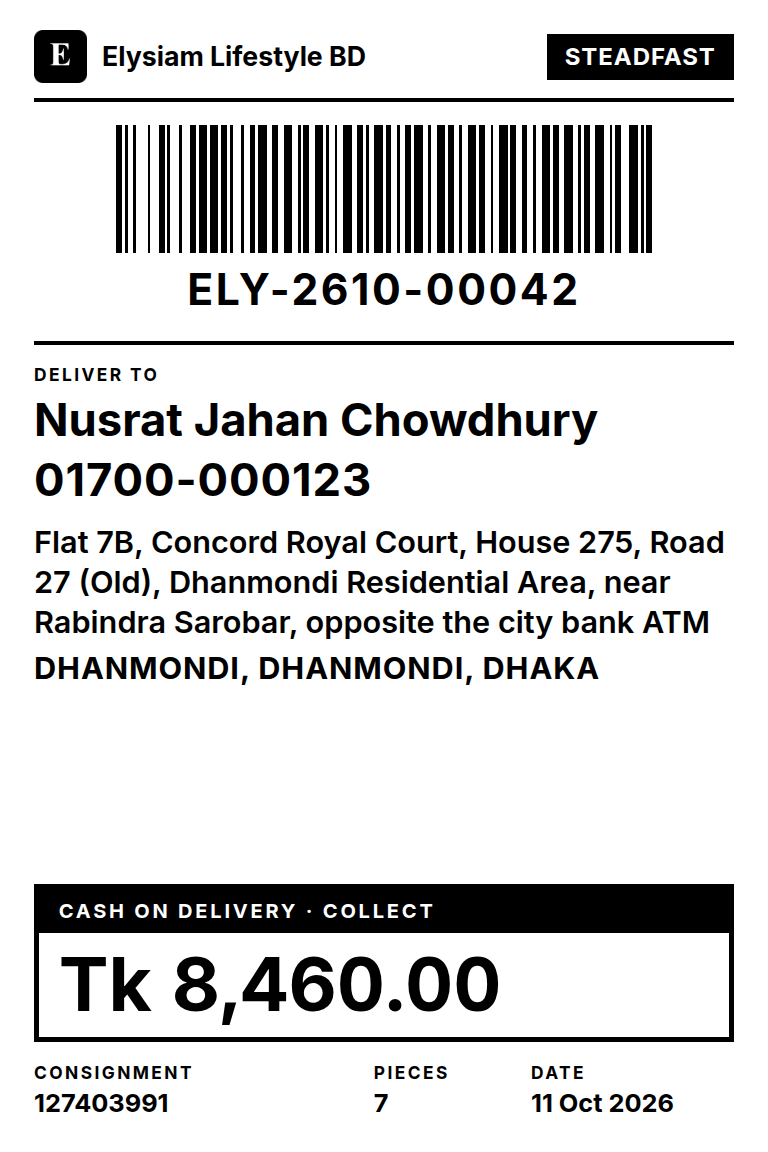
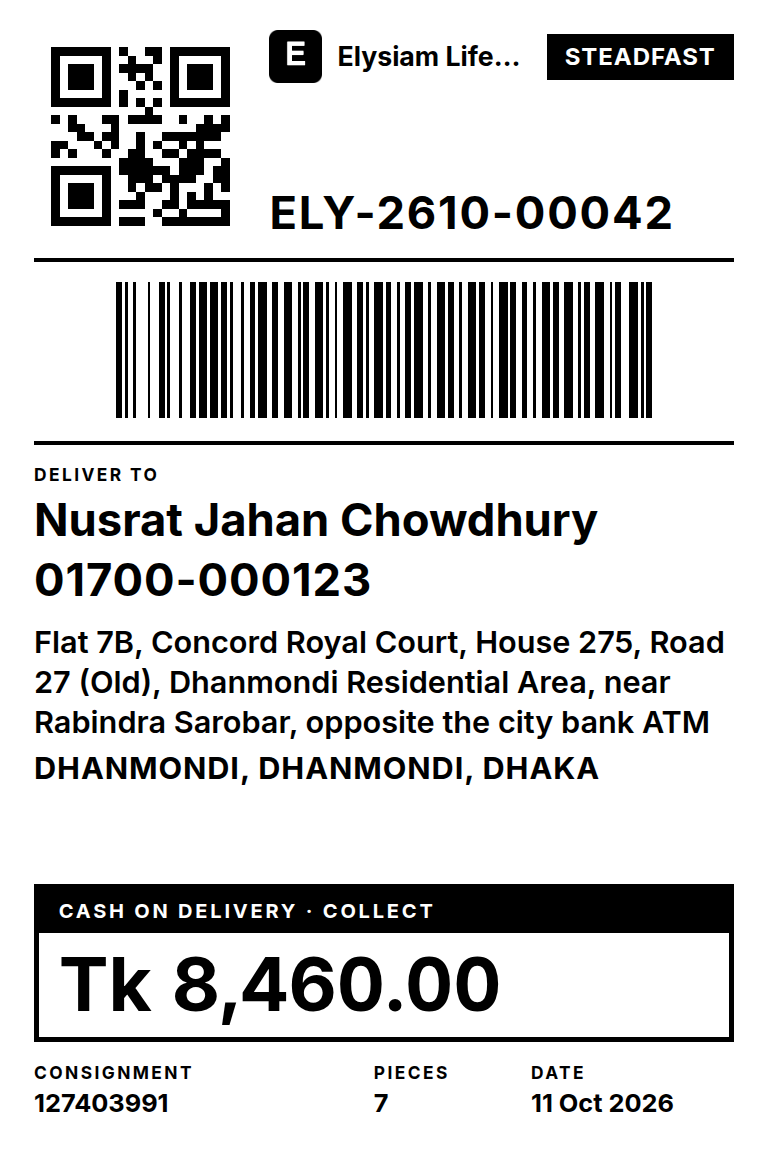
fix(labels): the 4 x 6 label carries a QR code beside a taller barcode
The label's Code 128 was exact only when the page printed at its size; the browser print
station prints through Chrome, which fits a PDF to the printer's printable area, and a few
per cent of shrink leaves bars between dots. The label now opens with a QR code of the
same value, each module whole 203 dpi dots and about 30 mm square, beside the brand,
courier, order number and lot, over a full-width Code 128 18 mm tall (D-911). The thermal
test reads the QR back square for square and the bars on many rows, at 203 dpi and at 96 %.

Changed region(s): [[0.0312, 0.0, 0.9375, 0.6875]]

diff --git a/apps/server/src/modules/orders/order-documents.ts b/apps/server/src/modules/orders/order-documents.ts
@@ -10,6 +10,7 @@ import {
   type Poisha,
 } from '@elysium/domain';
 import { lotCode } from '@elysium/domain/packing';
+import { encode as encodeQr } from 'uqr';
 
 import { DOCUMENT_FONT_STACK, fontFaceCss, type FontFile } from '../files/pdf/fonts.js';
 
@@ -223,6 +224,30 @@ export function orderBarcode(value: string, moduleMm: number, heightMm: number):
     '<svg ',
     `<svg width="${String(width)}mm" height="${String(heightMm)}mm" data-barcode="${escapeHtml(value)}" `,
   );
+}
+
+/** One dot of a 203 dpi thermal head, in millimetres: a QR module is a whole number of them. */
+const THERMAL_DOT_MM = 25.4 / 203;
+
+/**
+ * The label's QR code (D-911): the barcode's value again, for a 2D scanner or a phone, which read
+ * a code shrunk to fit a printer, smudged or held at an angle where a 1D laser loses the bars.
+ * Error correction M and two modules of quiet zone inside the image; each module a whole number
+ * of a 203 dpi head's dots, as large as fits `maxMm`, so the squares print as solid squares.
+ */
+export function orderQr(value: string, maxMm: number): string {
+  const { data, size } = encodeQr(value, { ecc: 'M', border: 2 });
+  const dots = Math.max(6, Math.floor(maxMm / size / THERMAL_DOT_MM));
+  const sizeMm = Math.round(size * dots * THERMAL_DOT_MM * 100) / 100;
+  const rects: string[] = [];
+  for (let y = 0; y < size; y += 1) {
+    const row = data[y] ?? [];
+    for (let x = 0; x < size; x += 1) {
+      if (row[x] === true)
+        rects.push(`<rect x="${String(x)}" y="${String(y)}" width="1" height="1"/>`);
+    }
+  }
+  return `<svg xmlns="http://www.w3.org/2000/svg" viewBox="0 0 ${String(size)} ${String(size)}" width="${String(sizeMm)}mm" height="${String(sizeMm)}mm" shape-rendering="crispEdges" data-qr="${escapeHtml(value)}" role="img" aria-label="${escapeHtml(value)}"><rect width="${String(size)}" height="${String(size)}" fill="#fff"/><g fill="#000">${rects.join('')}</g></svg>`;
 }
 
 /** The ink, the hairlines and the type scale every page shares (§24 collapsed onto paper). */
@@ -715,15 +740,22 @@ export function renderLabelHtml(input: {
   const { brand, data, fonts } = input;
   const courier = data.courier;
   const nothing = data.codAmountPoisha <= 0n;
+  const scan = documentBarcodeValue(data);
+  // D-911: the QR code and the bars carry the same value; whichever the scanner reads.
   const body = `
     <div class="label">
-      <div class="top">
-        <div class="from">${brand.logo === null ? '' : `<img class="logo" src="${escapeHtml(brand.logo)}" alt="" />`}<span>${escapeHtml(brand.displayName)}</span></div>
-        <div class="courier">${escapeHtml(courier?.name ?? 'Courier')}</div>
+      <div class="head">
+        <div class="qr" data-field="qr">${orderQr(scan, 30)}</div>
+        <div class="head-side">
+          <div class="top">
+            <div class="from">${brand.logo === null ? '' : `<img class="logo" src="${escapeHtml(brand.logo)}" alt="" />`}<span>${escapeHtml(brand.displayName)}</span></div>
+            <div class="courier">${escapeHtml(courier?.name ?? 'Courier')}</div>
+          </div>
+          <div class="order-no" data-field="order-no">${escapeHtml(data.orderNo)}</div>
+          ${lotBadge(data)}
+        </div>
       </div>
-      <div class="barcode">${orderBarcode(documentBarcodeValue(data), 0.375, 17)}</div>
-      <div class="order-no" data-field="order-no">${escapeHtml(data.orderNo)}</div>
-      ${lotBadge(data)}
+      <div class="barcode">${orderBarcode(scan, 0.375, 18)}</div>
 
       <div class="to" data-field="recipient">
         <div class="caption">Deliver to</div>
@@ -761,16 +793,21 @@ function labelCss(fonts: readonly FontFile[]): string {
         display: flex; flex-direction: column; overflow: hidden; font-size: 9pt; line-height: 1.3;
       }
       .caption { font-size: 6.5pt; font-weight: 700; letter-spacing: 0.14em; text-transform: uppercase; }
-      .top { display: flex; justify-content: space-between; align-items: center; gap: 3mm; padding-bottom: 2mm; border-bottom: 1.5pt solid #000; }
+      /* D-911: the QR code beside who sends it, the courier and the order number, over the bars. */
+      .head { display: flex; gap: 3mm; padding-bottom: 2mm; border-bottom: 1.5pt solid #000; }
+      .qr { flex: none; line-height: 0; }
+      .head-side { flex: 1; min-width: 0; display: flex; flex-direction: column; gap: 1.6mm; }
+      .top { display: flex; justify-content: space-between; align-items: center; gap: 2mm; }
       .from { display: flex; align-items: center; gap: 2mm; min-width: 0; font-size: 10pt; font-weight: 700; }
       .from span { overflow: hidden; text-overflow: ellipsis; white-space: nowrap; }
       .logo { max-height: 7mm; max-width: 20mm; object-fit: contain; filter: grayscale(100%) contrast(140%); }
       .courier { flex: none; background: #000; color: #fff; padding: 1mm 2.4mm; font-size: 9pt; font-weight: 700; letter-spacing: 0.04em; text-transform: uppercase; }
-      .barcode { margin-top: 3mm; text-align: center; line-height: 0; }
+      .barcode { margin-top: 2.6mm; text-align: center; line-height: 0; }
       .barcode svg { display: inline-block; }
-      .order-no { margin-top: 1.2mm; text-align: center; font-size: 16pt; font-weight: 700; letter-spacing: 0.06em; }
+      .order-no { margin-top: auto; font-size: 17pt; font-weight: 700; letter-spacing: 0.04em; white-space: nowrap; overflow: hidden; text-overflow: ellipsis; }
       /* M46 (D-806): one bag of several, black on white so a thermal head prints it solid. */
       .lot { margin: 1.4mm auto 0; width: fit-content; background: #000; color: #fff; padding: 1mm 3.2mm; font-size: 13pt; font-weight: 800; letter-spacing: 0.1em; text-transform: uppercase; }
+      .head-side .lot { margin: 0; }
       .to { margin-top: 3mm; padding-top: 2.6mm; border-top: 1.5pt solid #000; }
       .name { margin-top: 1mm; font-size: 17pt; font-weight: 700; line-height: 1.15; overflow-wrap: anywhere; }
       .phone { margin-top: 0.6mm; font-size: 17pt; font-weight: 700; letter-spacing: 0.02em; }

diff --git a/apps/server/src/modules/packing/printers/render.gotenberg.test.ts b/apps/server/src/modules/packing/printers/render.gotenberg.test.ts
@@ -3,6 +3,7 @@ import path from 'node:path';
 import { fileURLToPath } from 'node:url';
 
 import { lotCode } from '@elysium/domain/packing';
+import { encode as encodeQr } from 'uqr';
 import { beforeAll, describe, expect, it } from 'vitest';
 
 import { decodeCode128Svg } from '../../../testing/code128-decode.js';
@@ -83,6 +84,45 @@ function decodeRow(bitmap: MonoBitmap, y: number, length: number): string | null
   }
 }
 
+/**
+ * The label's QR code read back off the dots (D-911): its finder pattern found in the top-left
+ * corner, then every module's centre (a 3 × 3 majority) against the encoder's own matrix. The
+ * share of modules that print as the encoder drew them; 1 is every square right.
+ */
+function qrMatch(bitmap: MonoBitmap, value: string, widthDots: number): number {
+  let y0 = -1;
+  let x0 = -1;
+  // The QR code's column only: the brand's name starts beside it, a little higher.
+  for (let y = 0; y < 400 && y0 < 0; y += 1) {
+    for (let x = 0; x < widthDots; x += 1) {
+      if (dot(bitmap, x, y)) {
+        y0 = y;
+        x0 = x;
+        break;
+      }
+    }
+  }
+  if (y0 < 0) return 0;
+  let run = 0;
+  while (dot(bitmap, x0 + run, y0)) run += 1;
+  // The finder pattern is seven modules wide.
+  const module = run / 7;
+  const { data, size } = encodeQr(value, { ecc: 'M', border: 0 });
+  let right = 0;
+  for (let row = 0; row < size; row += 1) {
+    for (let col = 0; col < size; col += 1) {
+      const cx = Math.round(x0 + (col + 0.5) * module);
+      const cy = Math.round(y0 + (row + 0.5) * module);
+      let black = 0;
+      for (let dy = -1; dy <= 1; dy += 1) {
+        for (let dx = -1; dx <= 1; dx += 1) if (dot(bitmap, cx + dx, cy + dy)) black += 1;
+      }
+      if (black >= 5 === (data[row]?.[col] === true)) right += 1;
+    }
+  }
+  return right / (size * size);
+}
+
 /** The dots as a picture to look at (black on white). */
 function picture(bitmap: MonoBitmap): Uint8Array {
   const data = new Uint8Array(bitmap.widthDots * bitmap.heightDots);
@@ -133,16 +173,41 @@ describe('a lot’s label and slip on a thermal printer (D-811)', () => {
     const share = ink / (812 * 1218);
     expect(share).toBeGreaterThan(0.03);
     expect(share).toBeLessThan(0.5);
-    // Somewhere in the top quarter a row of dots reads as the lot's code.
-    const expected = lotCode(SAMPLE_ORDER.orderNo, 2);
-    let read: string | null = null;
-    for (let y = 40; y < 320 && read === null; y += 2) {
-      const decoded = decodeRow(bitmap, y, expected.length);
-      if (decoded !== null) read = decoded;
-    }
-    expect(read).toBe(expected);
+    // In the top half, rows of dots read as the lot's code, all down the bars' height (D-911).
     await mkdir(REVIEW_DIR, { recursive: true });
     await writeFile(path.join(REVIEW_DIR, 'label-lot-2-of-3-tspl-203dpi.png'), picture(bitmap));
+    const expected = lotCode(SAMPLE_ORDER.orderNo, 2);
+    let reads = 0;
+    for (let y = 40; y < 600; y += 2) {
+      if (decodeRow(bitmap, y, expected.length) === expected) reads += 1;
+    }
+    expect(reads).toBeGreaterThan(30);
+    // D-911: and the QR code beside the order number prints square for square.
+    expect(qrMatch(bitmap, expected, 270)).toBe(1);
+  });
+
+  it('keeps both codes readable shrunk to 96 %, as Chrome fits a PDF to a printable area (D-911)', async (context) => {
+    if (!ready) context.skip();
+    // The same 4 × 6 page drawn at 195 dpi on 203 dpi paper: every mark 96 % of its size, so no
+    // bar or square falls on whole dots any more.
+    const page = await lotPage('label');
+    const rendered = await renderForPrinter(client, page, {
+      language: 'tspl',
+      widthUm: 101_600,
+      heightUm: 152_400,
+      dpi: 195,
+      copies: 1,
+    });
+    const bitmap = bitmapOfTspl(rendered.bytes);
+    await mkdir(REVIEW_DIR, { recursive: true });
+    await writeFile(path.join(REVIEW_DIR, 'label-lot-2-of-3-shrunk-96.png'), picture(bitmap));
+    const expected = lotCode(SAMPLE_ORDER.orderNo, 2);
+    let reads = 0;
+    for (let y = 40; y < 600; y += 2) {
+      if (decodeRow(bitmap, y, expected.length) === expected) reads += 1;
+    }
+    expect(reads).toBeGreaterThan(10);
+    expect(qrMatch(bitmap, expected, 260)).toBe(1);
   });
 
   it('shrinks the A5 slip onto a 4 × 6 label printer and a test page onto 100 × 150 mm', async (context) => {

diff --git a/docs/decisions.md b/docs/decisions.md
@@ -770,6 +770,7 @@ Format: `- <date> · <milestone> · D-0xx · <assumption> · <why this default> 
 - 2026-10-24 · fix · D-908 · **A brand server passes the courier switches through, and the Labels page says when nothing will print by itself.** `infra/brand/docker-compose.brand.yml` never passed `COURIER_STEADFAST_ENABLED`, `COURIER_PATHAO_ENABLED` or `COURIER_REDX_ENABLED` to the API and worker, so on every brand server the three UNVERIFIED adapters were off whatever `.env.brand` said: an account on them could not be switched on, an on-confirm booking was skipped (D-901's W5), no consignment came back and D-817's auto-print never ran. The compose now passes `BRAND_COURIER_<CODE>_ENABLED` (default `false`, the honesty gate is unchanged) and `BRAND_COURIER_STEADFAST_BASE_URL` (default Packzy's), and `server-deploy.sh` prints a note for each switch not `true`. `GET /v1/labels/settings` answers the brand's booking policy (`courierBooking`, through `OrdersApi.courierBooking`), and Labels → Printers' Automatic printing card says, with a link to Settings → Order workflow, that nothing prints by itself while the courier is booked by hand. The runbook's §2 step 6 switches a courier on and §6 lists what to check when a label does not print after Confirm · "in erp still after confirming order its not being printed automatically in the label tab" · Set `BRAND_COURIER_STEADFAST_ENABLED=true` in a brand's `.env.brand` and deploy.
 - 2026-10-24 · fix · D-909 · **The SPAs' CSP lets a page frame a `blob:` it made itself.** The print station (D-816, D-900) prints each label's PDF from a hidden frame of a `blob:` URL; the CSP had no `frame-src`, so frames fell to `default-src 'self'`, which `blob:` is not. Chrome blocked the frame, put its own error page there, and the station's `print()` threw "Failed to read a named property 'print' from 'Window': Blocked a frame … from accessing a cross-origin frame" on every job, the test print included. `contentSecurityPolicy` (`packages/config/src/pages-headers.ts`) adds `frame-src 'self' blob:`; `frame-ancestors 'none'` and `X-Frame-Options: DENY` are unchanged (nobody frames the console). Reproduced in Chromium with the production policy (the same error) and gone with the new one · The owner's report from `erp.elysium-lifestyle.bd` · —
 - 2026-10-24 · fix · D-910 · **A person assigned to a terminal binds their own computer to it.** D-803 let only a supervisor (`update PackingTerminal`: org_admin, branch_manager) bind a computer, so warehouse staff put at Label 1 or Packing 1 could not bind the computer they work at without a supervisor sitting at it. `POST /v1/terminals/:id/bind` now asks `read PackingTerminal` (org_admin, branch_manager, warehouse), and the service lets a supervisor bind any terminal and anyone else only one they are assigned to (`TERMINAL_NOT_ASSIGNED`, 403, otherwise); the binding is audited as before and a supervisor still revokes it. Labels and Packaging → Terminals show Bind this computer to the terminal's people. A computer bound already is moved, never bound twice: the bind carries the browser's binding (`x-terminal-device`), someone not a supervisor moves it only from a terminal they are also assigned to (else `TERMINAL_NOT_ASSIGNED`), and the old binding is revoked in the same transaction and audited (`packing.terminal_device_revoked`, `replacedBy`), so no dead computer is left on the other terminal's card (the ledger audit's W1). Editing a terminal, assigning people and cameras, and revoking a computer stay the supervisor's · "jim has warehouse access … admin also assigned him on terminal but he cannot bind his pc" · —
+- 2026-10-24 · fix · D-911 · **The 4 × 6 label carries a QR code beside its barcode.** The owner: the label's barcode is hard to scan. The label's Code 128 was 0.375 mm a bar (three dots of a 203 dpi head) and 17 mm tall, exact only when the page prints at its size; a browser print station prints through Chrome, which fits a PDF to the printer's printable area, and a few per cent of shrink leaves bars between dots. The label (`renderLabelHtml`) now opens with a QR code of the same value (the order number, or the lot code of one lot of several: what the packing station, the handover and the courier portal read), error correction M, two modules of quiet zone, each module a whole number of 203 dpi dots and about 30 mm square (`orderQr`), beside the brand, the courier, the order number and the lot; the Code 128 is full width under it, 18 mm tall. The page keeps its one label (the long-address review). `render.gotenberg.test.ts` reads the QR code back off the dots square for square and the bars on rows all down their height, at 203 dpi and shrunk to 96 % · "the label barcode is hard to scan, try to make it bigger and perfect or instead use a qr code" · A 1D laser scanner reads the bars; a 2D imager or a phone reads either.
 
 ## Unverified integrations
 

diff --git a/docs/progress.md b/docs/progress.md
@@ -3800,3 +3800,12 @@ c.org_id and o.id = c.order_id where a.provider_code = 'steadfast' and c.booking
   refused, the assigned packer binds and checks in, Working now one row a computer);
   `route-matrix.e2e.test.ts` and `guard.test.ts` passed. Typecheck, lint, format: PASS.
 - **New dependencies:** none. **Migration:** none.
+- **Moving a bound computer (the ledger audit of D-910, W1):** the bind carries the browser's
+  binding; someone not a supervisor moves a computer only from a terminal they are also assigned
+  to, and the old binding is revoked and audited in the same transaction. `labels.e2e.test.ts`
+  13 passed.
+- **The label's QR code (D-911):** the 4 × 6 label opens with a QR code of the barcode's value
+  beside the brand, courier, order number and lot, over a full-width Code 128 18 mm tall.
+  `render.gotenberg.test.ts` 4 passed (the QR read back square for square and the bars on many
+  rows, at 203 dpi and at 96 %), `documents-review.test.ts`, `order-documents.test.ts`,
+  `pack-station.e2e.test.ts` 44 passed. Pictures in `docs/review/M46/`.
